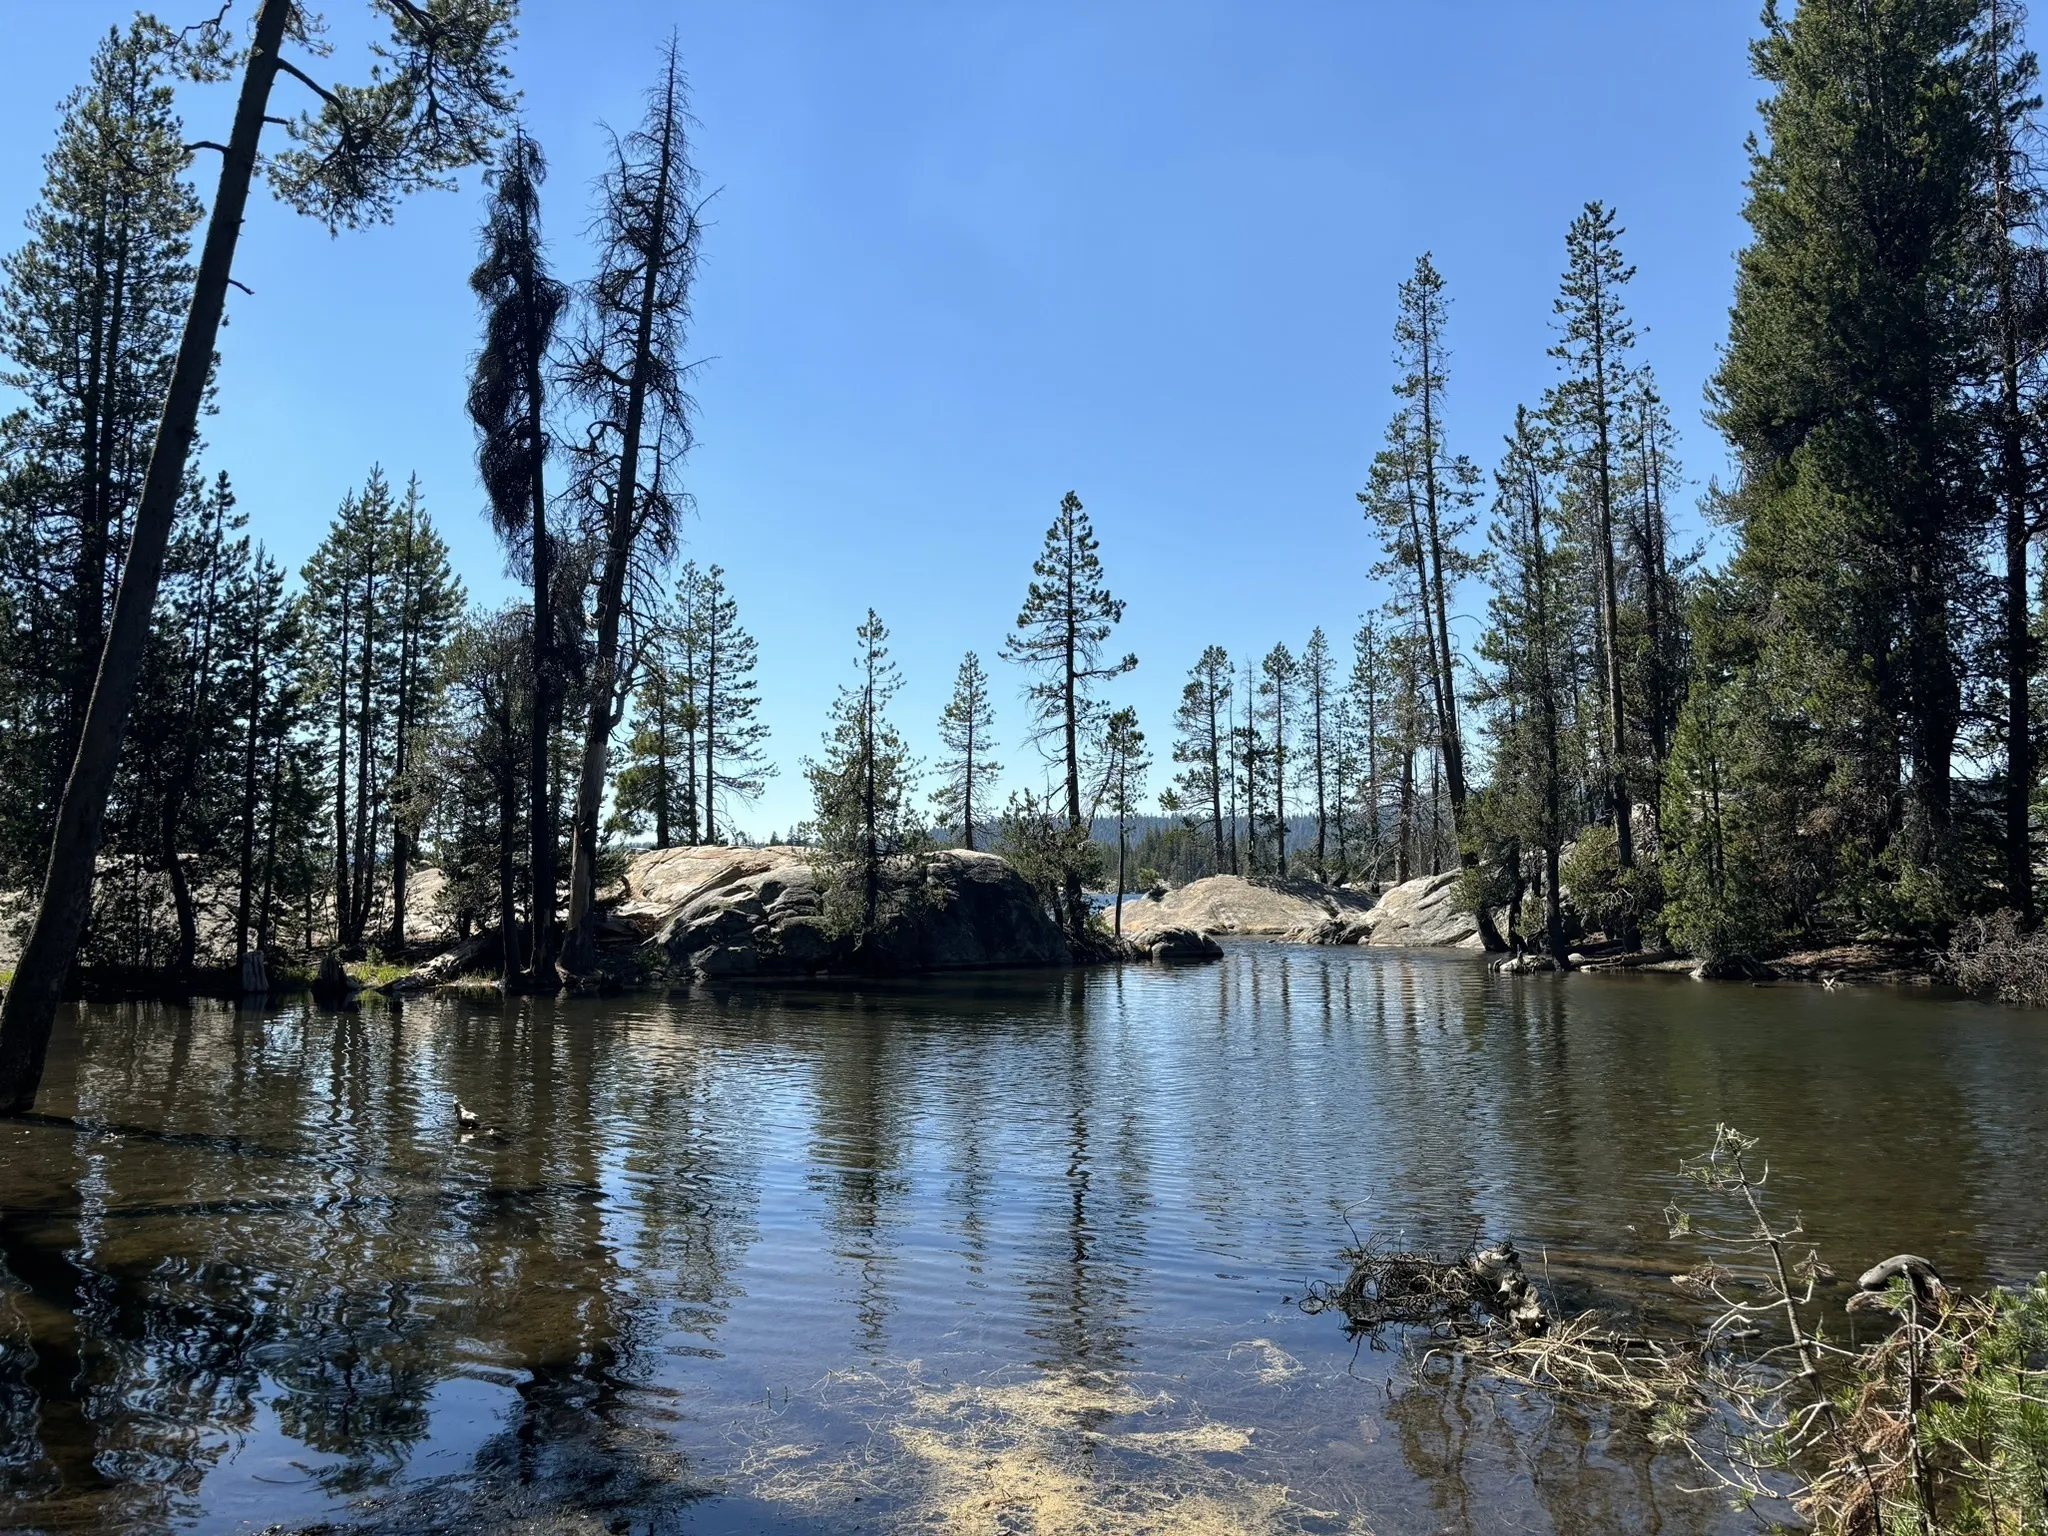
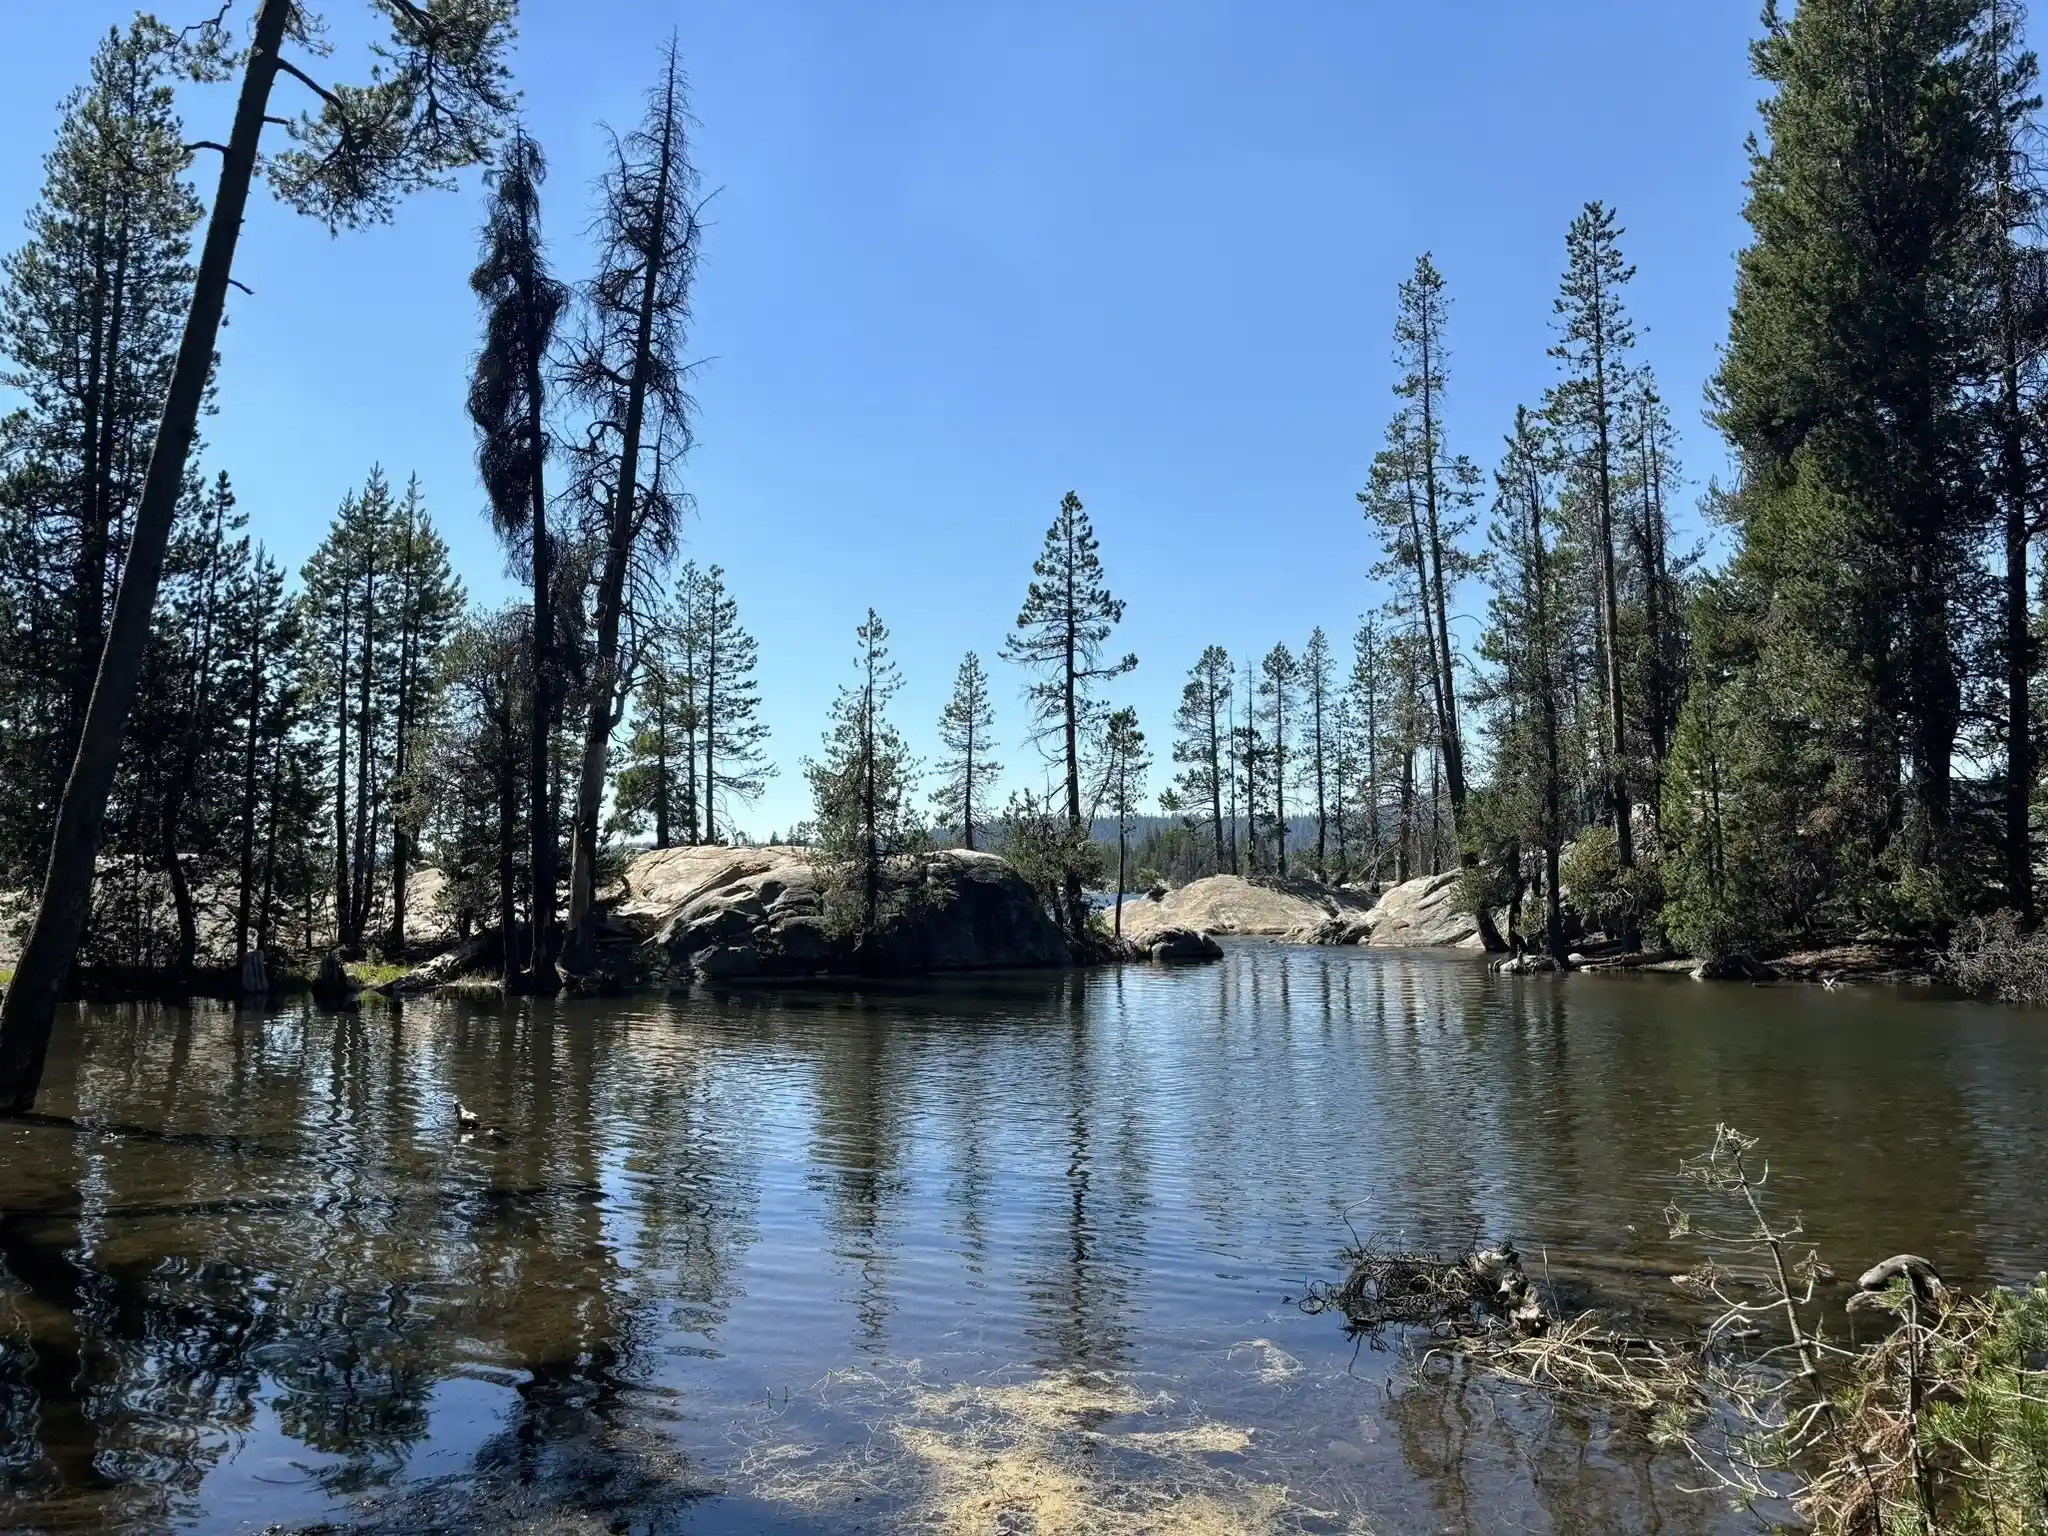
Webp

diff --git a/app/components/slideshow-images.ts b/app/components/slideshow-images.ts
@@ -5,107 +5,107 @@ export type SlideshowImage = {
 
 export const slideshowImages: SlideshowImage[] = [
   {
-    src: "/slideshow/20160812_073850_Original.JPG",
+    src: "/slideshow/webp/20160812_073850_Original.webp",
     alt: "Slideshow memory 1"
   },
   {
-    src: "/slideshow/20170129_143136.jpg",
+    src: "/slideshow/webp/20170129_143136.webp",
     alt: "Slideshow memory 2"
   },
   {
-    src: "/slideshow/20170708_132031.jpg",
+    src: "/slideshow/webp/20170708_132031.webp",
     alt: "Slideshow memory 3"
   },
   {
-    src: "/slideshow/68176547_1075080_8d7c094813c0824807a856f09e3460a3_full.jpg",
+    src: "/slideshow/webp/68176547_1075080_8d7c094813c0824807a856f09e3460a3_full.webp",
     alt: "Slideshow memory 4"
   },
   {
-    src: "/slideshow/68176579_1075080_b83942b0803d72fefbe9c739a368299c_full.jpg",
+    src: "/slideshow/webp/68176579_1075080_b83942b0803d72fefbe9c739a368299c_full.webp",
     alt: "Slideshow memory 5"
   },
   {
-    src: "/slideshow/68176597_1075080_dd9700dbe23c3cfe7c4eb5c42abd4de3_full.jpg",
+    src: "/slideshow/webp/68176597_1075080_dd9700dbe23c3cfe7c4eb5c42abd4de3_full.webp",
     alt: "Slideshow memory 6"
   },
   {
-    src: "/slideshow/68176598_1075080_dd9700dbe23c3cfe7c4eb5c42abd4de3_full.jpg",
+    src: "/slideshow/webp/68176598_1075080_dd9700dbe23c3cfe7c4eb5c42abd4de3_full.webp",
     alt: "Slideshow memory 7"
   },
   {
-    src: "/slideshow/68176599_1075080_15d39f15b7730e5a7d094d30f6088314_full.jpg",
+    src: "/slideshow/webp/68176599_1075080_15d39f15b7730e5a7d094d30f6088314_full.webp",
     alt: "Slideshow memory 8"
   },
   {
-    src: "/slideshow/68176600_1075080_087810220b486e258271790fdc7d0f3f_full.jpg",
+    src: "/slideshow/webp/68176600_1075080_087810220b486e258271790fdc7d0f3f_full.webp",
     alt: "Slideshow memory 9"
   },
   {
-    src: "/slideshow/68176609_1075080_59a29db82b189da52551c96aa8f85e02_full.jpg",
+    src: "/slideshow/webp/68176609_1075080_59a29db82b189da52551c96aa8f85e02_full.webp",
     alt: "Slideshow memory 10"
   },
   {
-    src: "/slideshow/68176611_1075080_bf8ef618f56037d94f86ddb2bab279ed_full.jpg",
+    src: "/slideshow/webp/68176611_1075080_bf8ef618f56037d94f86ddb2bab279ed_full.webp",
     alt: "Slideshow memory 11"
   },
   {
-    src: "/slideshow/68176612_1075080_bf8ef618f56037d94f86ddb2bab279ed_full.jpg",
+    src: "/slideshow/webp/68176612_1075080_bf8ef618f56037d94f86ddb2bab279ed_full.webp",
     alt: "Slideshow memory 12"
   },
   {
-    src: "/slideshow/DSCF0591.JPG",
+    src: "/slideshow/webp/DSCF0591.webp",
     alt: "Slideshow memory 13"
   },
   {
-    src: "/slideshow/DSCF0713.JPG",
+    src: "/slideshow/webp/DSCF0713.webp",
     alt: "Slideshow memory 14"
   },
   {
-    src: "/slideshow/IMG_0355.jpg",
+    src: "/slideshow/webp/IMG_0355.webp",
     alt: "Slideshow memory 15"
   },
   {
-    src: "/slideshow/IMG_0356.jpg",
+    src: "/slideshow/webp/IMG_0356.webp",
     alt: "Slideshow memory 16"
   },
   {
-    src: "/slideshow/IMG_3819.jpg",
+    src: "/slideshow/webp/IMG_3819.webp",
     alt: "Slideshow memory 17"
   },
   {
-    src: "/slideshow/IMG_4766.jpg",
+    src: "/slideshow/webp/IMG_4766.webp",
     alt: "Slideshow memory 18"
   },
   {
-    src: "/slideshow/IMG_4824.jpg",
+    src: "/slideshow/webp/IMG_4824.webp",
     alt: "Slideshow memory 19"
   },
   {
-    src: "/slideshow/IMG_5050.jpeg",
+    src: "/slideshow/webp/IMG_5050.webp",
     alt: "Slideshow memory 20"
   },
   {
-    src: "/slideshow/IMG_5058.jpeg",
+    src: "/slideshow/webp/IMG_5058.webp",
     alt: "Slideshow memory 21"
   },
   {
-    src: "/slideshow/IMG_5996.JPG",
+    src: "/slideshow/webp/IMG_5996.webp",
     alt: "Slideshow memory 22"
   },
   {
-    src: "/slideshow/IMG_6071.jpg",
+    src: "/slideshow/webp/IMG_6071.webp",
     alt: "Slideshow memory 23"
   },
   {
-    src: "/slideshow/IMG_6092.JPG",
+    src: "/slideshow/webp/IMG_6092.webp",
     alt: "Slideshow memory 24"
   },
   {
-    src: "/slideshow/Ponce.jpeg",
+    src: "/slideshow/webp/Ponce.webp",
     alt: "Slideshow memory 25"
   },
   {
-    src: "/slideshow/Screenshot_20180120-094129.png",
+    src: "/slideshow/webp/Screenshot_20180120-094129.webp",
     alt: "Slideshow memory 26"
   }
 ];

diff --git a/app/components/invitees.tsx b/app/components/invitees.tsx
@@ -1,17 +1,17 @@
 import Image, { type StaticImageData } from "next/image";
 
-import ciscoAndKara from "../../Photos/CiscoAndKara.jpg";
-import evanAndErin from "../../Photos/EvanAndErin.jpg";
-import greg from "../../Photos/Greg.jpg";
-import jason from "../../Photos/Jason.jpeg";
-import juli from "../../Photos/Juli.jpg";
-import kelly from "../../Photos/Kelly.jpg";
-import leo from "../../Photos/Leo.jpg";
-import luca from "../../Photos/Luca.jpg";
-import matthew from "../../Photos/Me.jpg";
-import michael from "../../Photos/Michael.jpg";
-import samAndTaylor from "../../Photos/SamandTaylor.jpg";
-import tallon from "../../Photos/Tallon.jpg";
+import ciscoAndKara from "../../Photos/WebpInvitees/CiscoAndKara.webp";
+import evanAndErin from "../../Photos/WebpInvitees/EvanAndErin.webp";
+import greg from "../../Photos/WebpInvitees/Greg.webp";
+import jason from "../../Photos/WebpInvitees/Jason.webp";
+import juli from "../../Photos/WebpInvitees/Juli.webp";
+import kelly from "../../Photos/WebpInvitees/Kelly.webp";
+import leo from "../../Photos/WebpInvitees/Leo.webp";
+import luca from "../../Photos/WebpInvitees/Luca.webp";
+import matthew from "../../Photos/WebpInvitees/Me.webp";
+import michael from "../../Photos/WebpInvitees/Michael.webp";
+import samAndTaylor from "../../Photos/WebpInvitees/SamandTaylor.webp";
+import tallon from "../../Photos/WebpInvitees/Tallon.webp";
 
 type Invitee = {
   name: string;

diff --git a/app/components/union-slides.ts b/app/components/union-slides.ts
@@ -1,7 +1,7 @@
 import type { StaticImageData } from "next/image";
 
 import unionOne from "../../Photos/UnionRes/Union1.webp";
-import unionThree from "../../Photos/UnionRes/union3.jpg";
+import unionThree from "../../Photos/UnionRes/union3.webp";
 import unionFive from "../../Photos/UnionRes/Union5.webp";
 import unionSix from "../../Photos/UnionRes/Union6.webp";
 
@@ -28,3 +28,4 @@ export const unionSlides: UnionSlide[] = [
     alt: "Union Reservoir weekend adventure view"
   }
 ];
+

diff --git a/app/components/faq-footer.tsx b/app/components/faq-footer.tsx
@@ -22,7 +22,7 @@ const faqs = [
   {
     question: "What time should I arrive?",
     answer:
-      "Friday is the best. Tallon and I will be there earlier on Friday, since we don't work or anything crazy like that.  Some will be leaving early Saturday morning.  It's up to you when you want to arrive, but earlier the better!"
+      "Friday is the best. Tallon and I will be there earlier on Friday, since we don't work or anything crazy like that.  Some will be leaving early Saturday morning.  It's up to you when you want to arrive, but the earlier the better!"
   },
   {
     question: "What happens at night?",

diff --git a/app/page.tsx b/app/page.tsx
@@ -27,7 +27,7 @@ export default function Home() {
           <div className="hero__copy">
             <p className="eyebrow">Aug 7th to 9th</p>
             <h1>Union Reservoir Camping</h1>
-            <p className="intro">It is also my birthday. I am turning 30 August 8th!</p>
+            <p className="intro">It is also my birthday. I am celebrating 30 years of life on August 8th!</p>
           </div>
 
           <div className="hero__photo-wrap hero__photo-wrap--slideshow">